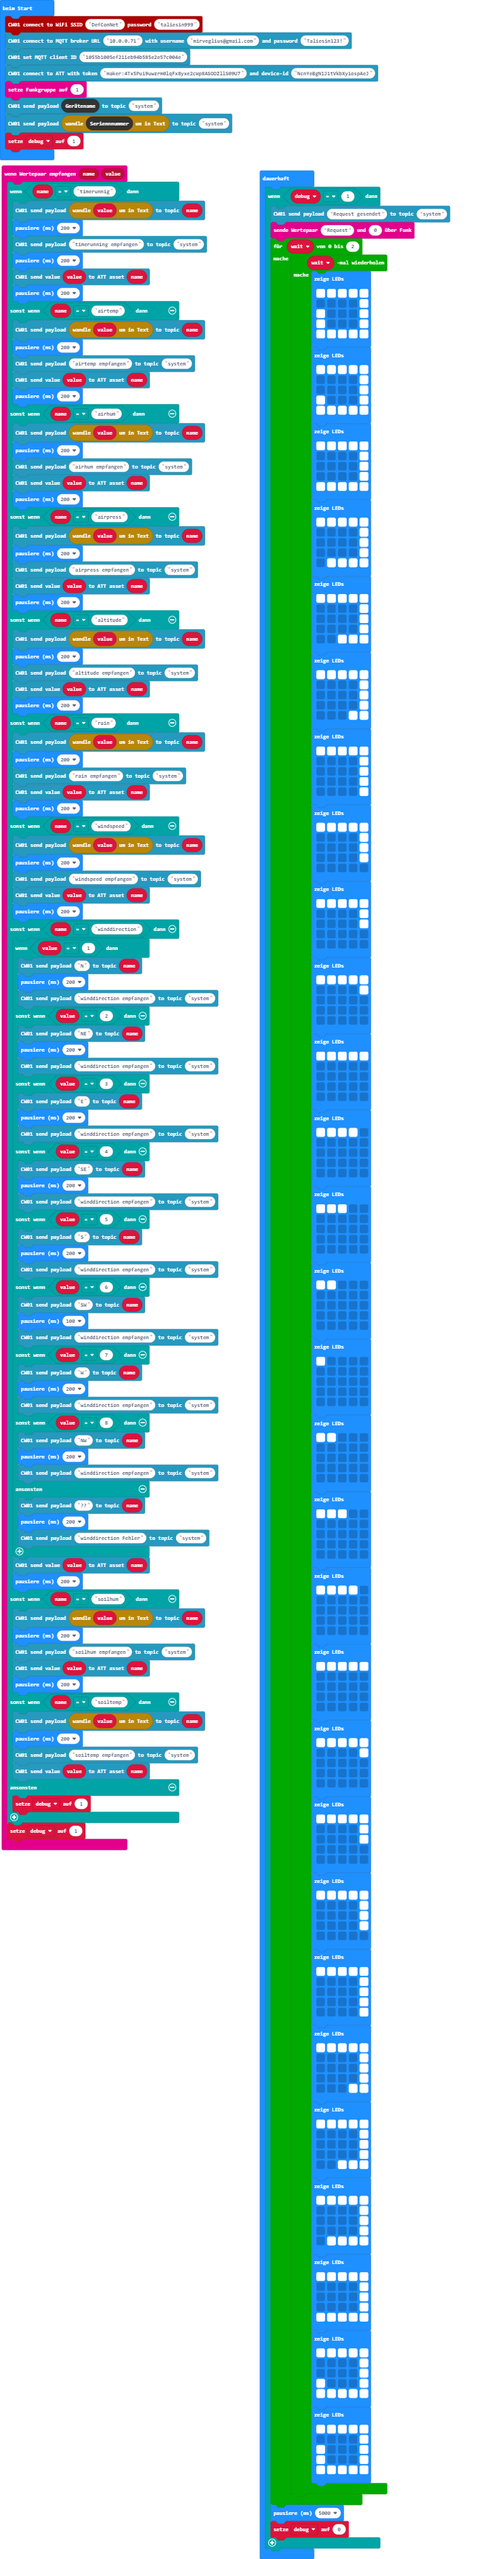
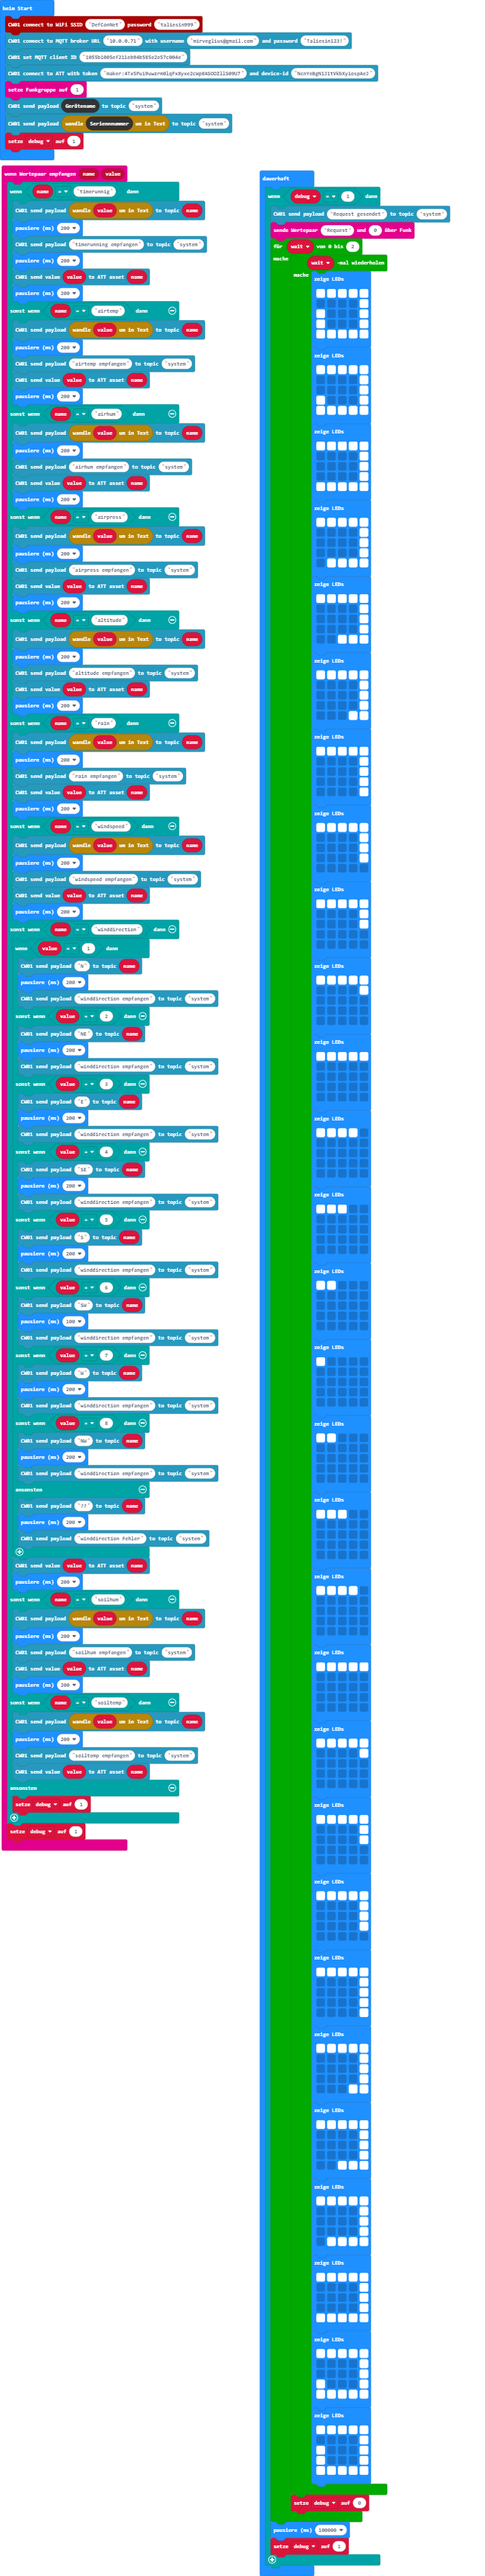
Aktualisiere main.blocks, main.ts

Changed region(s): [[0.0, 0.0, 0.5223, 0.744], [0.5531, 0.062, 0.9218, 0.9921], [0.6145, 0.0, 0.7374, 0.031]]

diff --git a/main.ts b/main.ts
@@ -317,8 +317,9 @@ basic.forever(function () {
                     # # # # #
                     `)
             }
+            debug = 0
         }
-        basic.pause(5000)
-        debug = 0
+        basic.pause(100000)
+        debug = 1
     }
 })
